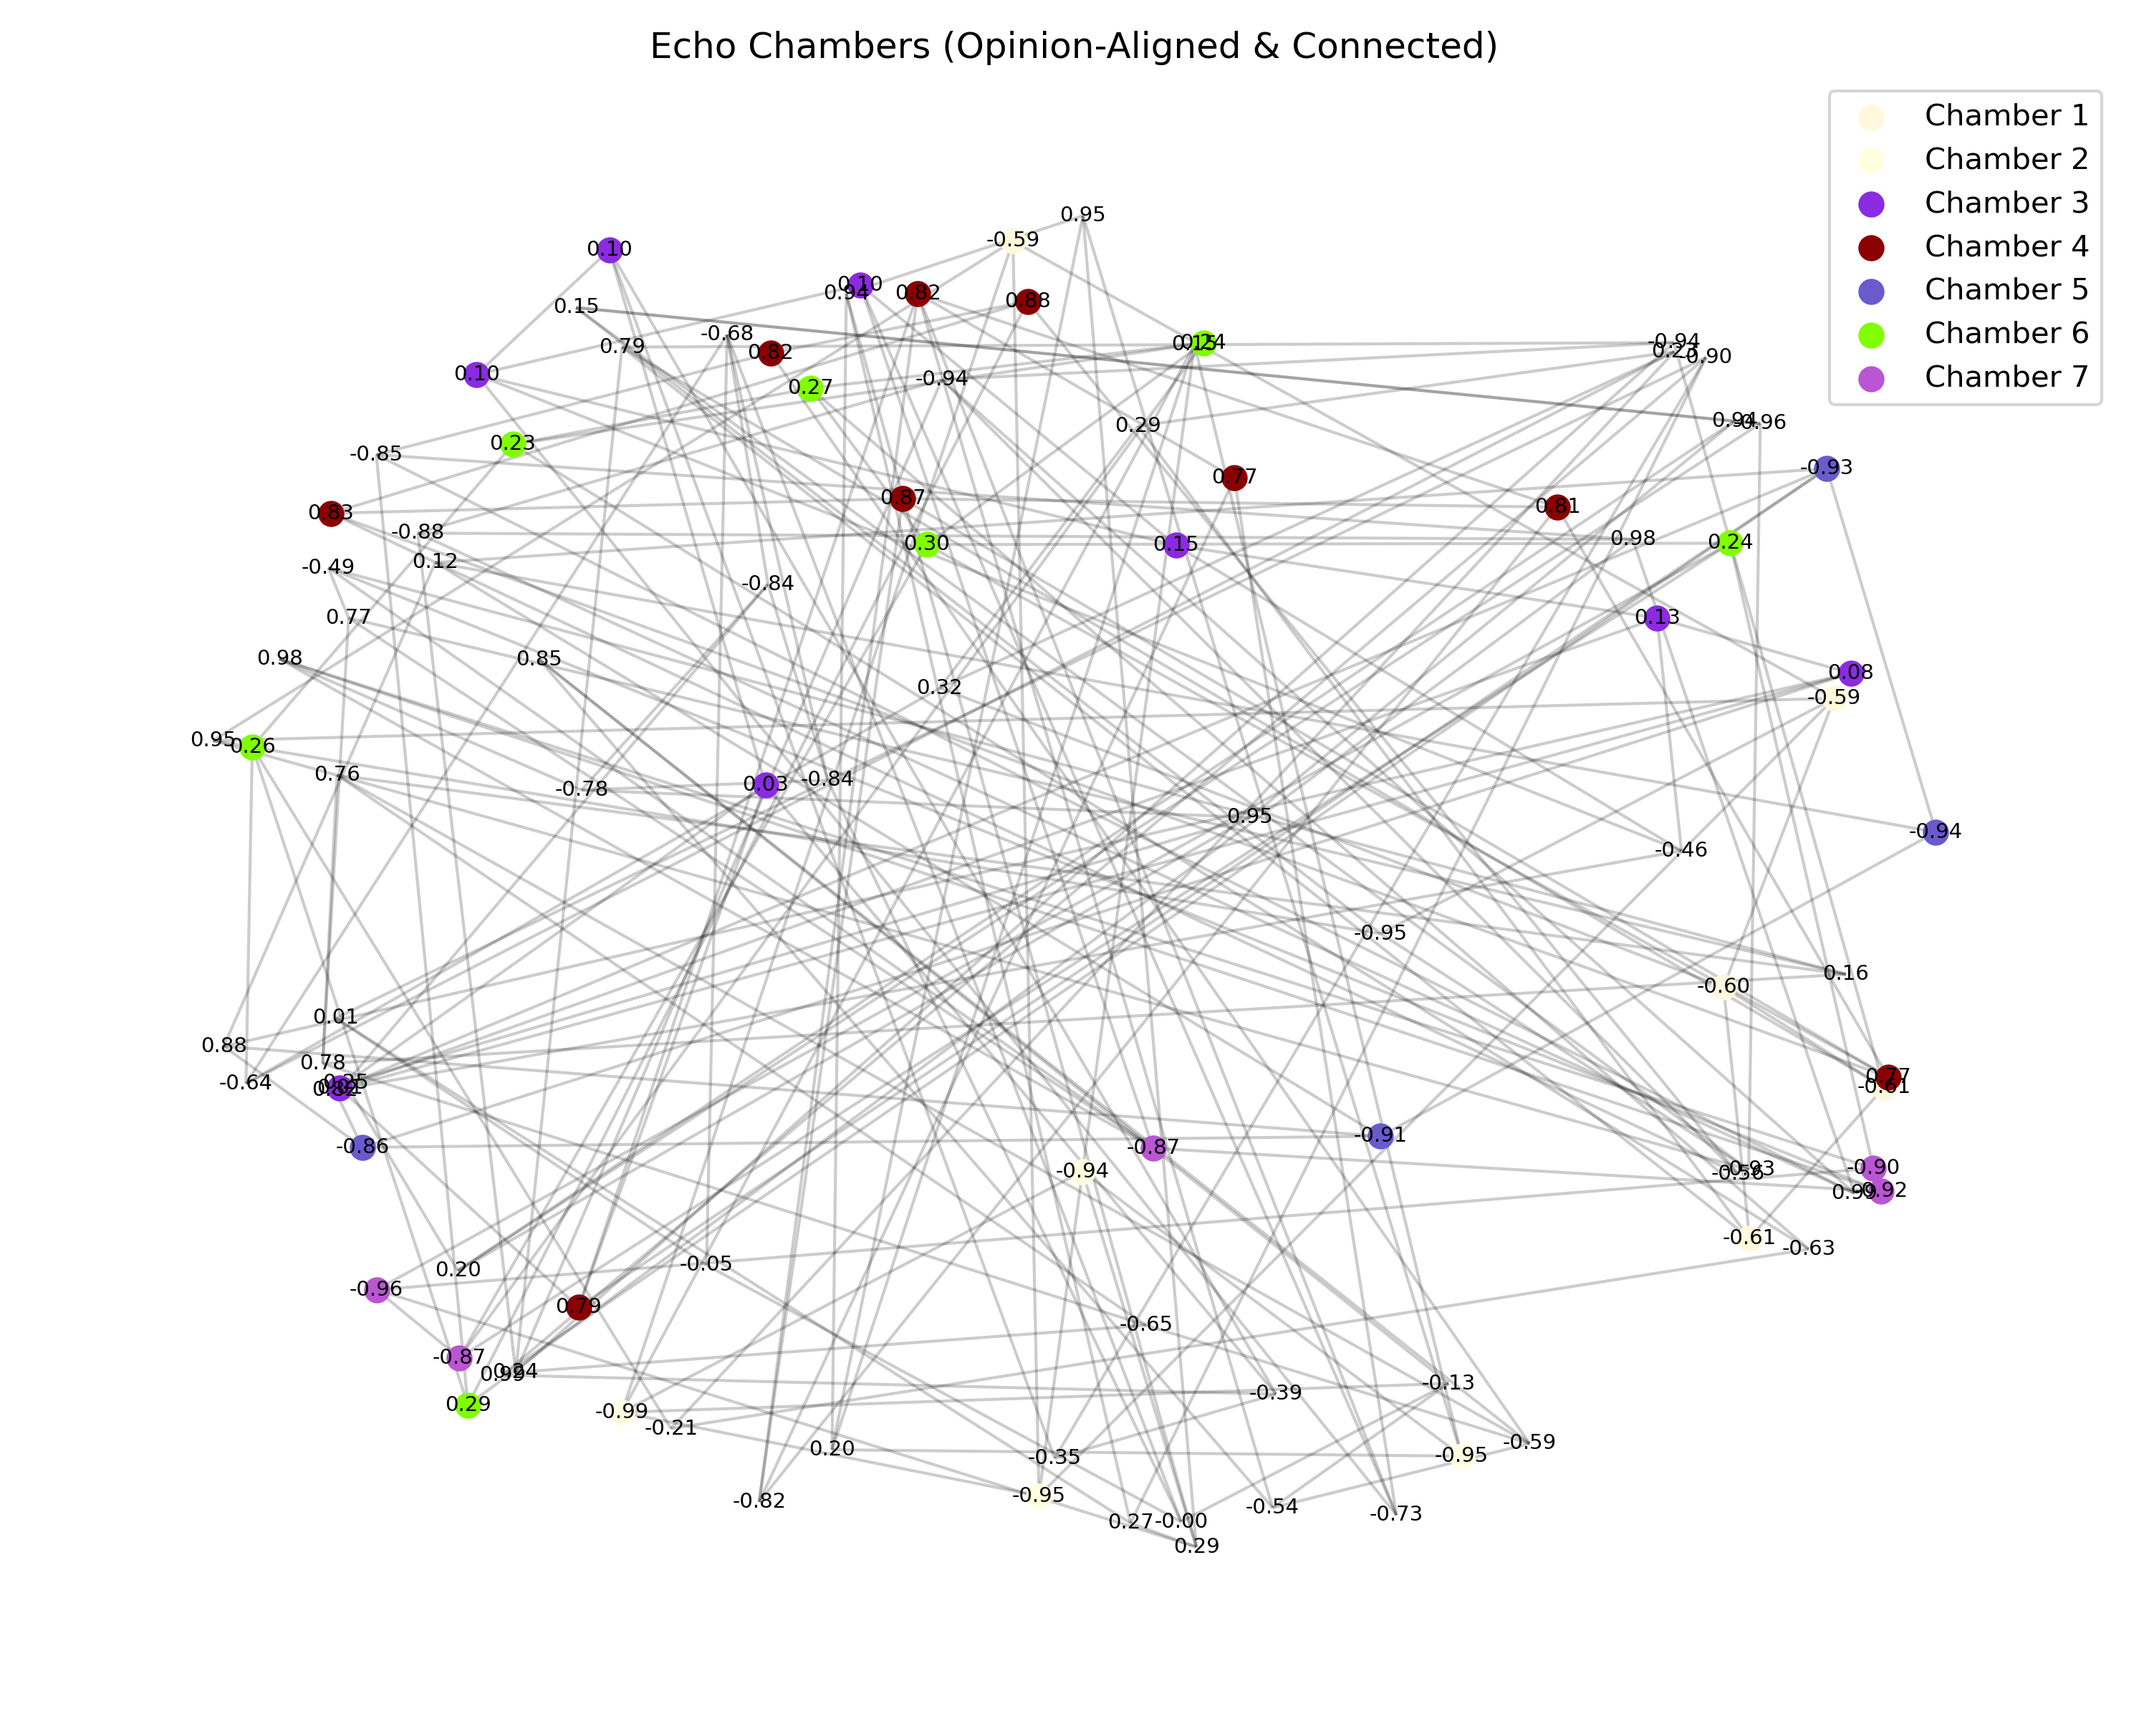
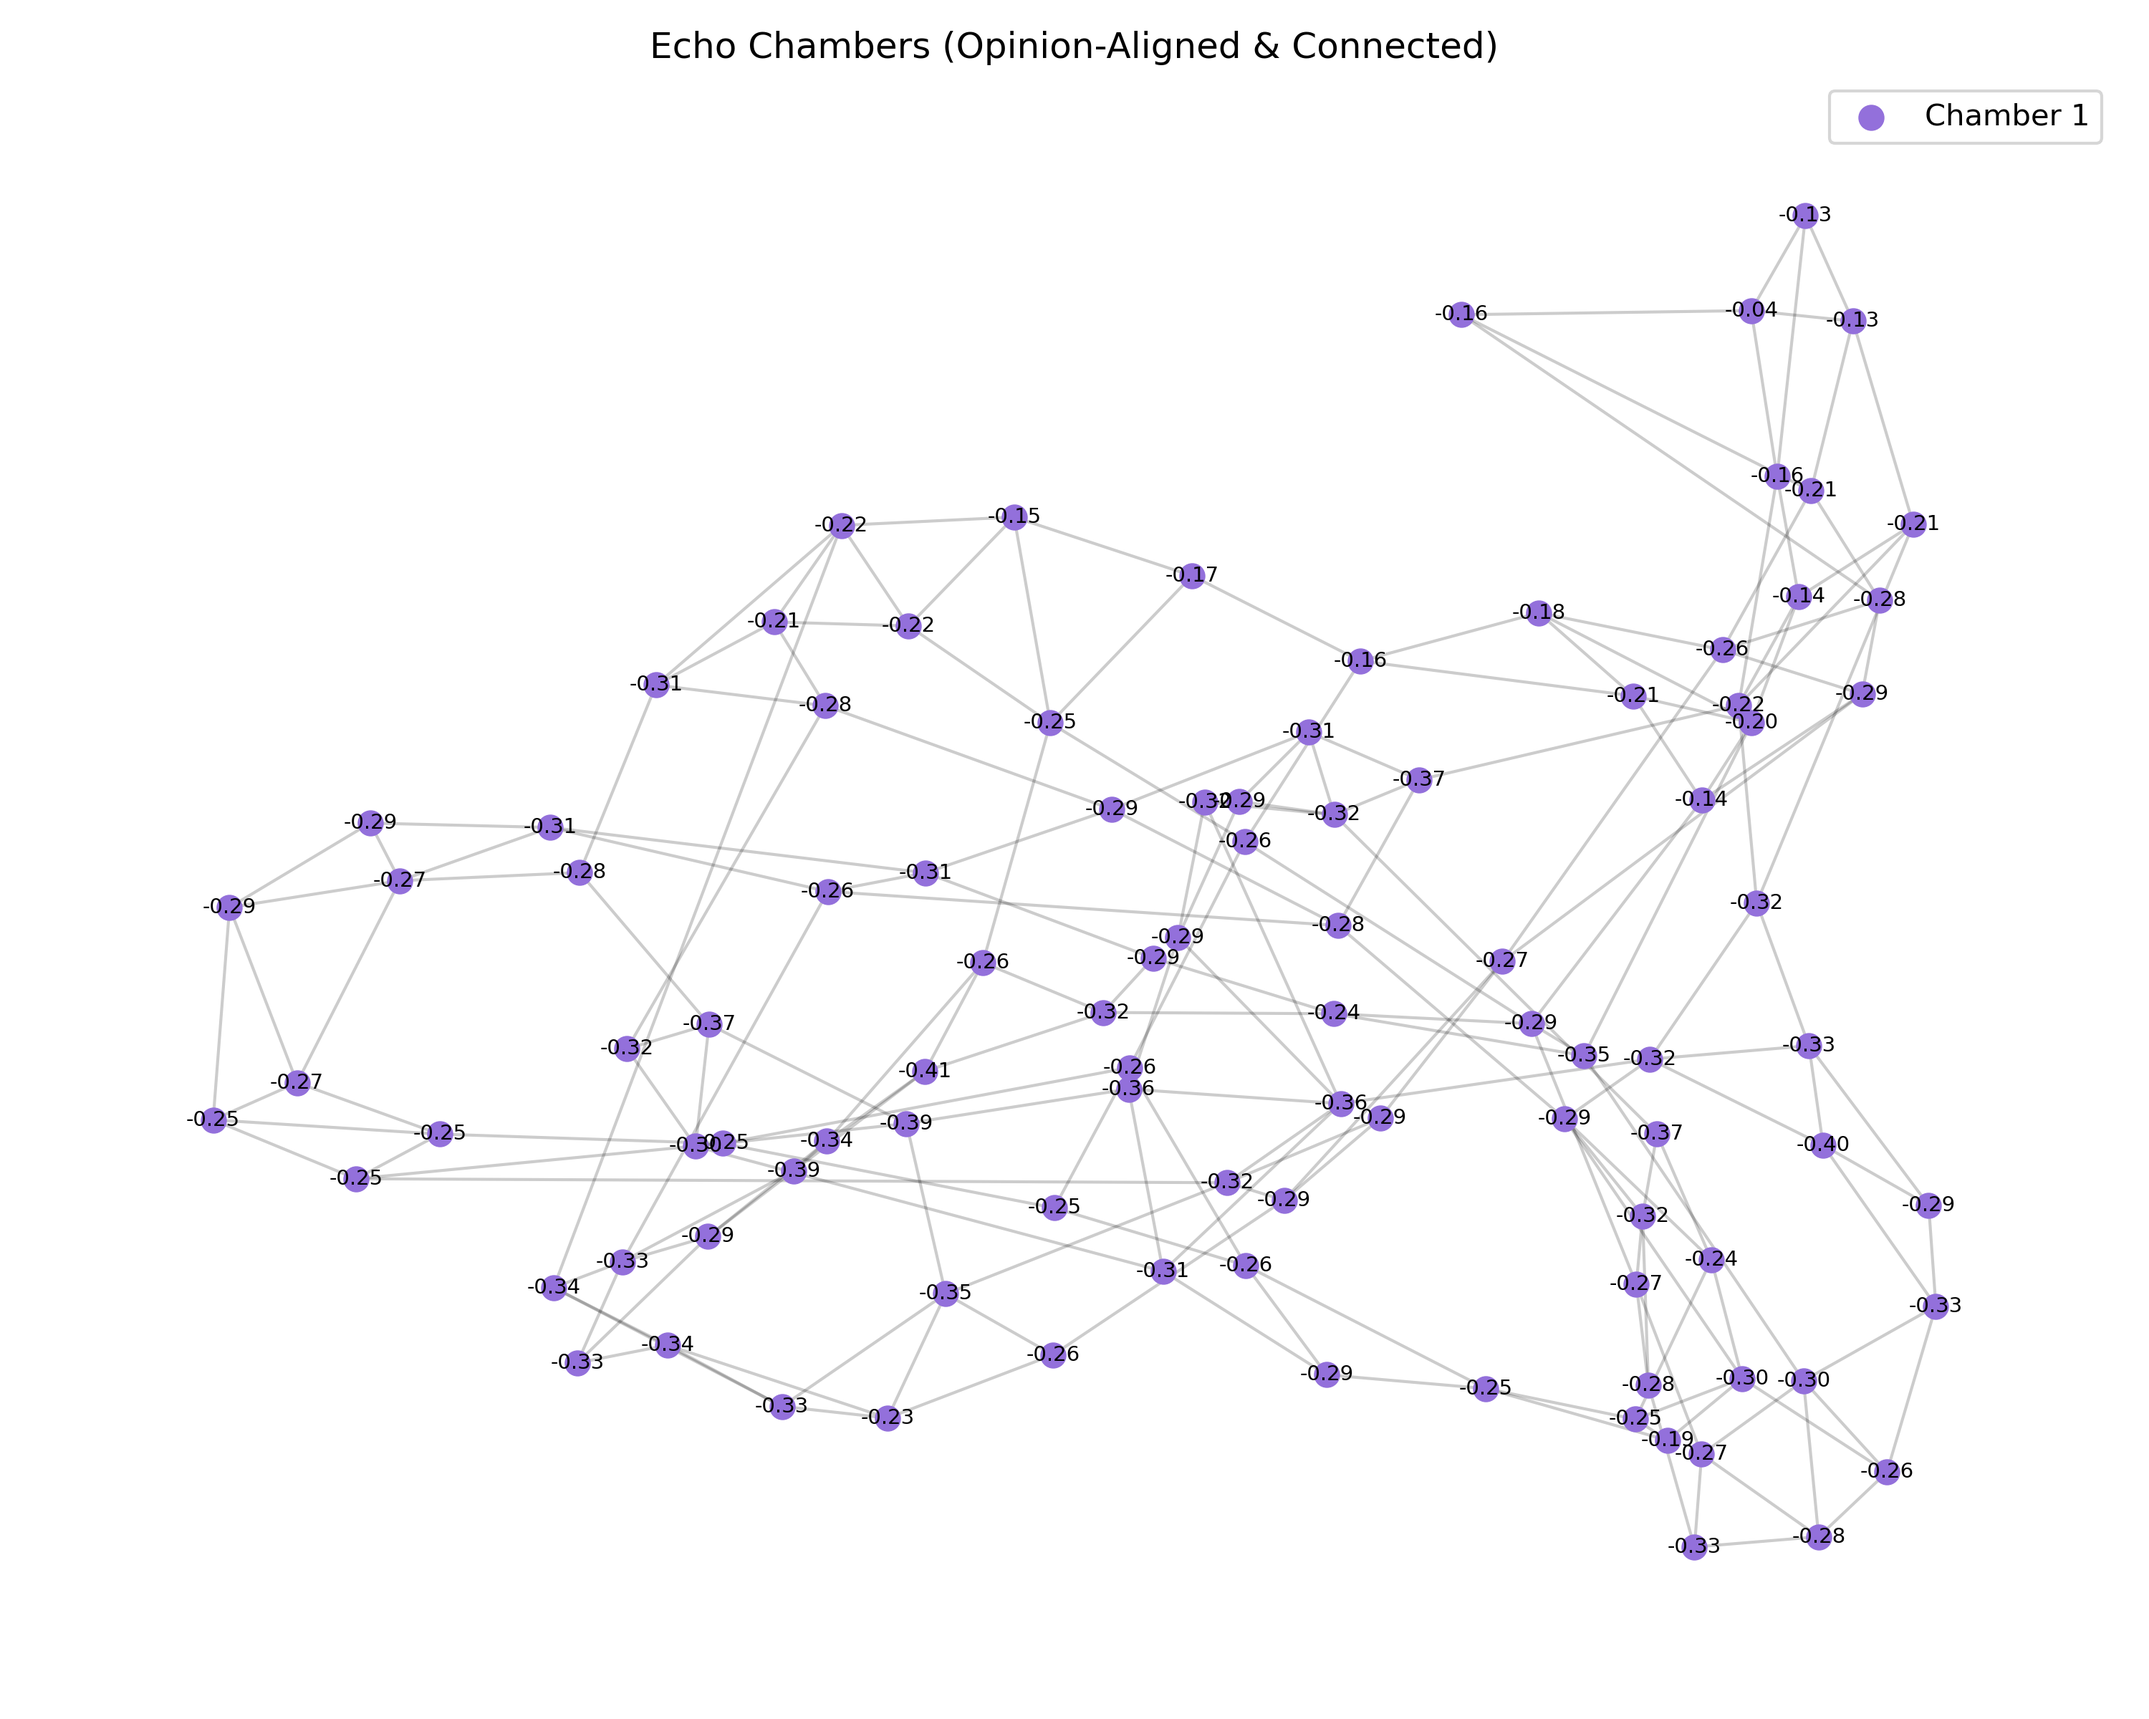
cleaned some things up realised that the opinions were going out of bound in the simulation

diff --git a/echo_chamber_sim.py b/echo_chamber_sim.py
@@ -138,12 +138,16 @@ pos = nx.spring_layout(G)
 
 random_kernel = int(input("Would you like the kernel to have randomness included (type the amount required, from 0 to 1) \n :"))
 
+# is the environment fair? make a variable for that. 
+
+fairness = float(input("Do you want your environment to be fair? where is the mean of the probability funtion?(input from -1,1 ) \n :"))
+
 
 
 # Influence function
 def influence_kernel1(r, tolerance=1.5):
     if abs(r) < tolerance:
-        return np.exp(-6 * abs(r)) * r * (1) + ( truncated_normal(0, 1, -1, 1 ) * random_kernel) # can you do normal here as well? 
+        return np.exp(-6 * abs(r)) * r * (1) + ( truncated_normal(fairness, 1, -1, 1 ) * random_kernel) # can you do normal here as well? 
     return 0
 
 

diff --git a/Conclusion.md b/Conclusion.md
@@ -1,0 +1,48 @@
+
+___
+
+We started off with a model that could be continous in time, consider multiple factors and have both deterministic and random contributors to the velocity. We have accomplished in converting this idea into code in python. 
+
+There were many things that one could vary to model real world data and hopefully predict if there would be changes. 
+
+- The function that was used was an exponential decay function which includes a bounded confidence. 
+- The randomness was calculated through a truncated gaussian distribution and a uniform distribution. 
+- The factors that can be varied in the code are as follows. 
+	1. size of the network
+	2. average connection 
+	3. rewiring probability 
+	4. edge weights
+		1. negative edge weights 
+		2. positive edge weights 
+		3. no edge weights (ie, 1)
+	5. randomness/ non-deterministic part in the kernel
+
+These factors greatly change the outcome of the experiment and determine whether we will have a stable convergence/steady state. 
+
+The formation of an echo chamber can either occur as a dynamic state for an appreciable amount of time and then disappear or form as a stable state of the system. 
+
+We know that the ones that do form as a stable state happen due to two reasons. 
+
+1. The topology of the system 
+2. The way the velocity is defined
+
+Using the topology of the system we can predict whether the system will have echo chambers forming as a stable state. 
+
+It is a necessary condition to have convergence that the system be well connected and connected in a manner that favours individuals being equally connected. 
+
+Measure called modularity depicts how well the network is divided into communities and this is solely based upon the topology of the network. The higher this is the more likely that the network has echo chambers that form. 
+
+Based on the way velocity is defined these temporary communities may form due to the bounded confidence and thus increasing the modularity of the network. 
+
+How does the non-deterministic addition to the kernel affect the convergence of the network?
+
+Having randomness with mean at zero does not change the convergence of the network. (In the case of weighted positive and non weighted graphs.)
+
+Show the findings and run the code in the terminal. 
+
+In the mean time any questions so far? 
+
+
+
+Finally the most amount of echo chambers are formed when you establish negative weights in the network and have bounded confidence as well - need to do more work in this aspect. 
+

diff --git a/The findings.md b/The findings.md
@@ -109,3 +109,24 @@ Let us look at the same graph with randomness included.
 ![[Pasted image 20250715120557.png]]
 
 ![[Pasted image 20250715120722.png]]
+
+
+The influence kernel was taken to be :
+
+$$ \huge 
+\phi(r) = e^{-6r}
+$$
+The total velocity function would be :
+$$ \huge 
+\frac{do_{i}}{dt} = \sum_{j} w_{ij} \phi(r) r + \sigma\beta
+$$
+
+
+
+
+Why choose this model over the others? 
+
+They maybe dynamic however they usually produce consensus when time steps became large enough. And most models are not continous in time. 
+
+Can this model also have consensus? yes. 
+
